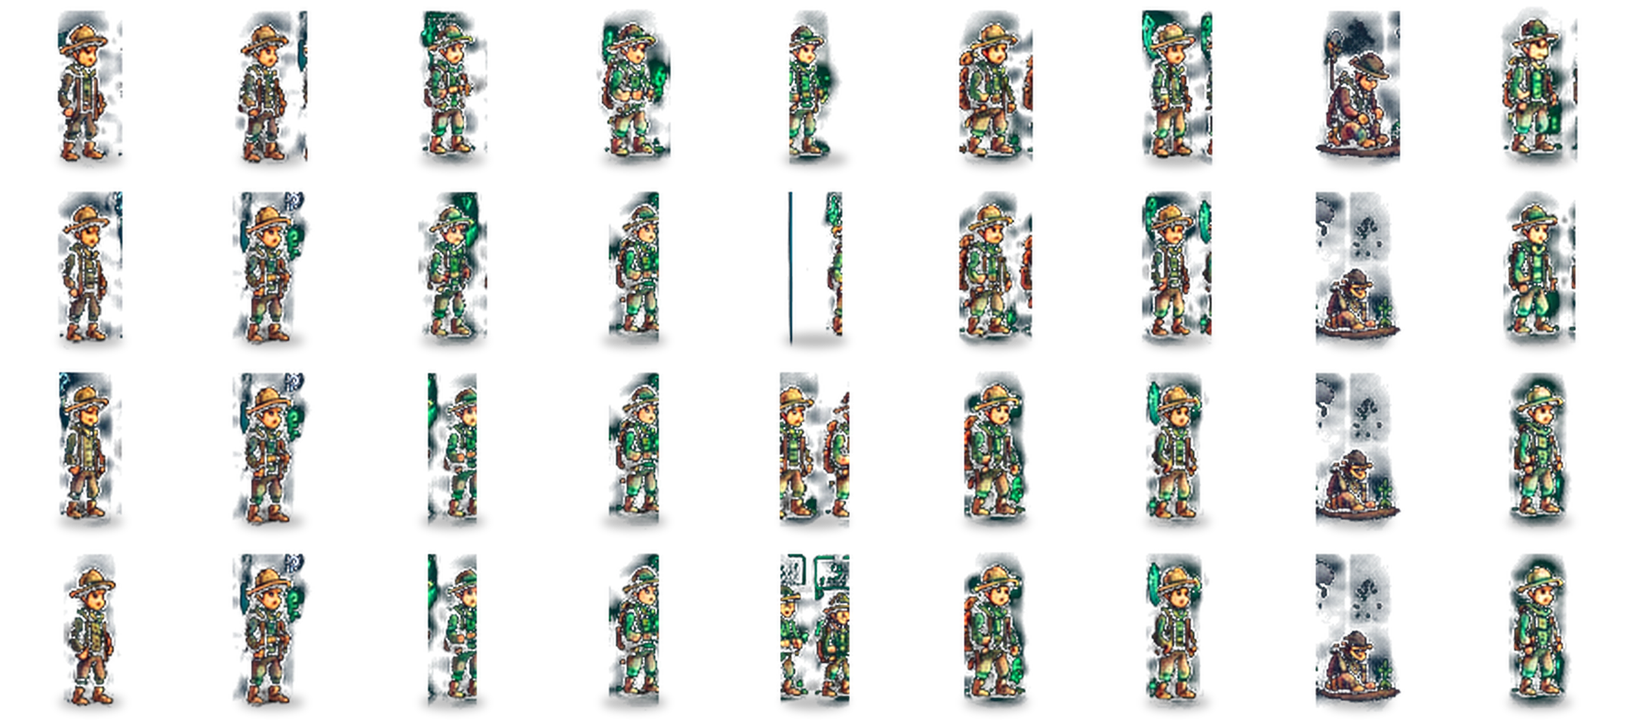
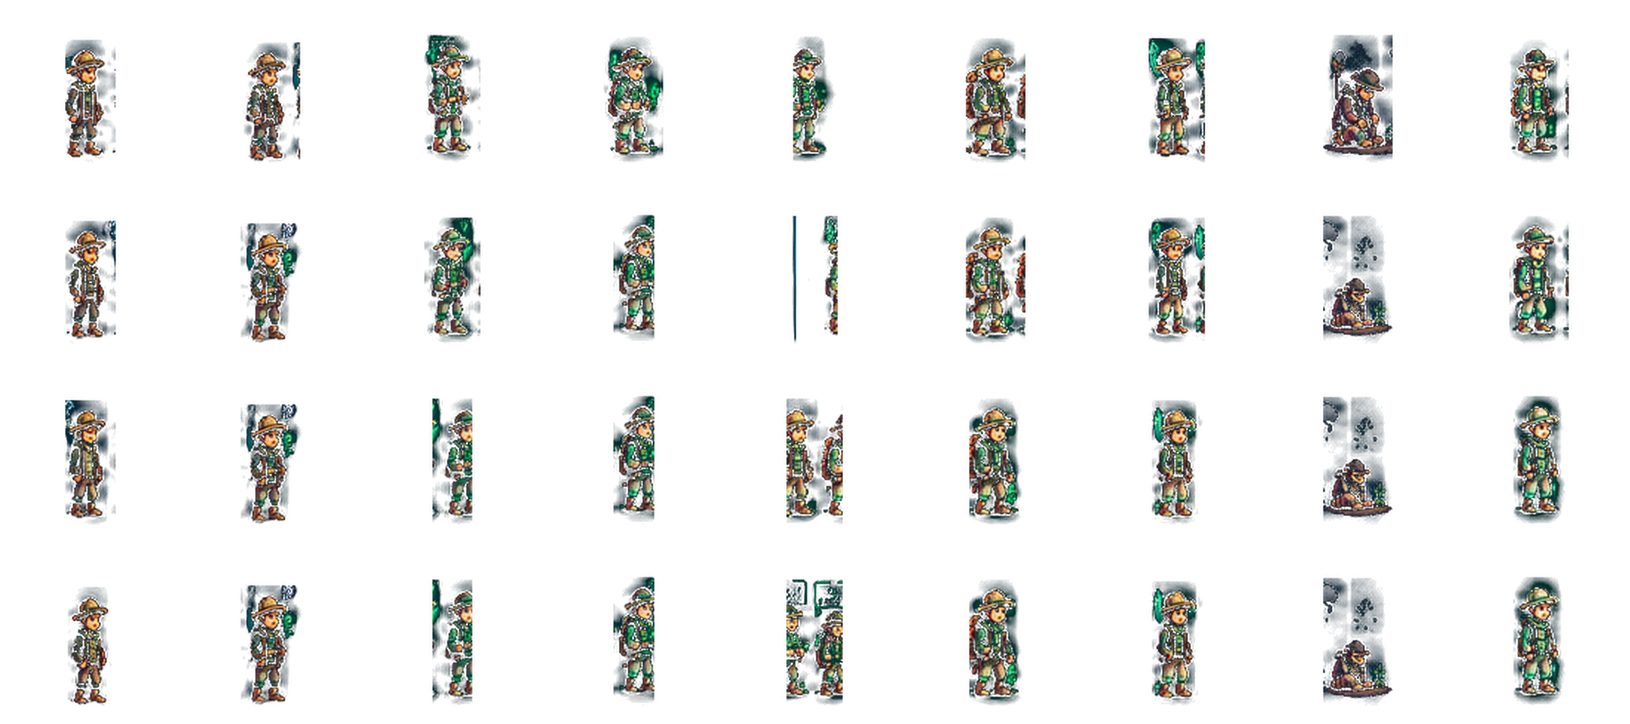
Add files via upload

diff --git a/guesser.html b/guesser.html
@@ -6,23 +6,22 @@
 <title>The Guesser · Baseline Farmer</title>
 <style>
 :root{--bg:#090d0d;--panel:#121919;--panel2:#182121;--line:#2a3737;--text:#e9eeee;--muted:#8ea0a0;--teal:#42d6c5;--green:#78e08f;--yellow:#ffd166;--red:#ff7b72;--purple:#b58cff;--blue:#79a8ff}
-*{box-sizing:border-box}body{margin:0;background:radial-gradient(circle at 50% 0,#162424 0,#090d0d 42%);color:var(--text);font:15px system-ui,-apple-system,BlinkMacSystemFont,"Segoe UI",sans-serif}a{color:var(--teal);text-decoration:none}a:hover{text-decoration:underline}main{max-width:1180px;margin:auto;padding:18px}.top{display:flex;justify-content:space-between;align-items:center;gap:15px;margin-bottom:14px}.brand{display:flex;align-items:center;gap:11px}.brandIcon{width:46px;height:46px;border-radius:10px}.wordmark{width:min(260px,54vw);display:block}.sub{font-size:12px;color:var(--muted);margin-top:3px}.nav{display:flex;gap:7px;flex-wrap:wrap}.nav a,.nav button{background:#172020;border:1px solid var(--line);padding:8px 11px;border-radius:8px;color:var(--text);font-weight:700;font-size:12px}.hero{border:1px solid var(--line);border-radius:18px;overflow:hidden;background:linear-gradient(180deg,#121b1b,#0d1212);box-shadow:0 18px 60px rgba(0,0,0,.25)}.stage{min-height:480px;position:relative;display:flex;align-items:center;justify-content:center;overflow:hidden;background:radial-gradient(circle at 50% 46%,rgba(66,214,197,.12),transparent 27%),linear-gradient(180deg,#0d1515,#080b0b)}.stars{position:absolute;inset:0;opacity:.45;background-image:radial-gradient(circle,#fff 1px,transparent 1px);background-size:67px 67px;background-position:13px 21px}.ground{position:absolute;bottom:44px;width:78%;height:1px;background:linear-gradient(90deg,transparent,var(--line),transparent);box-shadow:0 0 25px rgba(66,214,197,.12)}.scan{position:absolute;inset:0;background:linear-gradient(transparent 49%,rgba(66,214,197,.025) 50%,transparent 51%);background-size:100% 8px;pointer-events:none}.sprite-platform{position:absolute;left:50%;bottom:18px;width:200px;height:28px;transform:translateX(-50%);background:radial-gradient(ellipse at center,rgba(66,214,197,.22) 0%,rgba(0,0,0,.35) 55%,transparent 72%);filter:blur(1px);pointer-events:none;z-index:0}.spriteWrap .avatar{position:relative;z-index:1}.spriteWrap{position:relative;width:360px;height:380px;display:flex;align-items:end;justify-content:center;filter:drop-shadow(0 20px 34px rgba(0,0,0,.55))}.avatar-legacy-unused{display:none}.avatar .farmerHat{opacity:calc(1 - var(--holo));transition:opacity .7s}.avatar .helmet{opacity:var(--holo);transition:opacity .7s}.avatar .tech{opacity:var(--tech);transition:opacity .7s}.avatar .holo{opacity:var(--holo);transition:opacity .7s}.avatar .poor{opacity:var(--poor);transition:opacity .7s}.avatar .warm{opacity:calc(1 - var(--holo));transition:opacity .7s}.avatar .glowStroke{filter:drop-shadow(0 0 calc(3px + 10px * var(--glow)) rgba(66,214,197,.85));transition:filter .7s}.avatar .visorGlow{filter:drop-shadow(0 0 calc(2px + 14px * var(--glow)) rgba(66,214,197,.9));transition:filter .7s}.avatar.tier0{--poor:0;--tech:0;--holo:0;--glow:.05}.avatar.tier1{--poor:.05;--tech:.28;--holo:.08;--glow:.18}.avatar.tier2{--poor:0;--tech:.7;--holo:.38;--glow:.45}.avatar.tier3{--poor:0;--tech:1;--holo:.82;--glow:.78}.avatar.tier4{--poor:0;--tech:1;--holo:1;--glow:1}.avatar.tierPoor{--poor:.9;--tech:0;--holo:0;--glow:0}.avatar.state-wait .bodyAnim{animation:bodySway 2.8s ease-in-out infinite}.avatar.state-buycore .rightArm{transform-origin:118px 185px;animation:plantArm 1.1s ease-in-out infinite}.avatar.state-buycore .leftArm{transform-origin:91px 186px;animation:plantArm2 1.1s ease-in-out infinite}.avatar.state-buytactical .rightArm{transform-origin:118px 185px;animation:pointArm 1s ease-in-out infinite}.avatar.state-buytactical .corn{animation:cornPulse 1.2s ease-in-out infinite}.avatar.state-harvest .leftArm{transform-origin:91px 186px;animation:harvestArm 1s ease-in-out infinite}.avatar.state-harvest .rightArm{transform-origin:118px 185px;animation:harvestArm2 1s ease-in-out infinite}.avatar.state-preserve .headAnim{animation:lookAround 2.6s ease-in-out infinite}.avatar.state-preserve .rightArm{transform-origin:118px 185px;animation:shushArm 2s ease-in-out infinite}.avatar.state-think .headAnim{animation:thinkHead 2s ease-in-out infinite}.avatar.state-celebrate{animation:celebrateFloat .72s ease-in-out infinite}.avatar.state-celebrate .armsUp{animation:armsUp .72s ease-in-out infinite}.avatar.state-setback{animation:setback .9s ease-in-out infinite}.avatar.state-setback .headAnim{animation:sadHead 1.2s ease-in-out infinite}.avatar.state-setback .poorPatch{animation:patchFlicker 1.4s ease-in-out infinite}@keyframes avatarFloat{50%{transform:translateY(-7px)}}@keyframes bodySway{50%{transform:rotate(1.2deg) translateY(-2px)}}@keyframes plantArm{50%{transform:rotate(27deg) translate(3px,7px)}}@keyframes plantArm2{50%{transform:rotate(-20deg)}}@keyframes pointArm{50%{transform:rotate(-34deg) translate(8px,-5px)}}@keyframes cornPulse{50%{transform:scale(1.05);opacity:.85}}@keyframes harvestArm{50%{transform:rotate(-38deg) translateY(-9px)}}@keyframes harvestArm2{50%{transform:rotate(38deg) translateY(-9px)}}@keyframes lookAround{50%{transform:translateX(7px) rotate(2deg)}}@keyframes shushArm{50%{transform:rotate(-7deg) translateY(-11px)}}@keyframes thinkHead{50%{transform:rotate(-4deg) translate(6px,-3px)}}@keyframes celebrateFloat{50%{transform:translateY(-19px)}}@keyframes armsUp{50%{transform:translateY(-4px) rotate(-2deg)}}@keyframes setback{50%{transform:translateY(4px) rotate(-1deg)}}@keyframes sadHead{50%{transform:translateY(4px) rotate(3deg)}}@keyframes patchFlicker{50%{opacity:.5}}.avatarLabel{position:absolute;right:24px;bottom:18px;display:flex;align-items:center;gap:7px;background:rgba(10,16,16,.88);border:1px solid var(--line);border-radius:99px;padding:7px 10px;color:var(--muted);font-size:10px;font-weight:800;letter-spacing:.08em;text-transform:uppercase;backdrop-filter:blur(8px)}.avatarLabel i{width:7px;height:7px;border-radius:50%;background:var(--teal);box-shadow:0 0 10px var(--teal)}.avatarTier{color:var(--teal)}
+*{box-sizing:border-box}body{margin:0;background:radial-gradient(circle at 50% 0,#162424 0,#090d0d 42%);color:var(--text);font:15px system-ui,-apple-system,BlinkMacSystemFont,"Segoe UI",sans-serif}a{color:var(--teal);text-decoration:none}a:hover{text-decoration:underline}main{max-width:1180px;margin:auto;padding:18px}.top{display:flex;justify-content:space-between;align-items:center;gap:15px;margin-bottom:14px}.brand{display:flex;align-items:center;gap:11px}.brandIcon{width:46px;height:46px;border-radius:10px}.wordmark{width:min(260px,54vw);display:block}.sub{font-size:12px;color:var(--muted);margin-top:3px}.nav{display:flex;gap:7px;flex-wrap:wrap}.nav a,.nav button{background:#172020;border:1px solid var(--line);padding:8px 11px;border-radius:8px;color:var(--text);font-weight:700;font-size:12px}.hero{border:1px solid var(--line);border-radius:18px;overflow:hidden;background:linear-gradient(180deg,#121b1b,#0d1212);box-shadow:0 18px 60px rgba(0,0,0,.25)}.stage{min-height:430px;position:relative;display:flex;align-items:center;justify-content:center;overflow:hidden;background:radial-gradient(circle at 50% 46%,rgba(66,214,197,.12),transparent 27%),linear-gradient(180deg,#0d1515,#080b0b)}.stars{position:absolute;inset:0;opacity:.45;background-image:radial-gradient(circle,#fff 1px,transparent 1px);background-size:67px 67px;background-position:13px 21px}.ground{position:absolute;bottom:44px;width:78%;height:1px;background:linear-gradient(90deg,transparent,var(--line),transparent);box-shadow:0 0 25px rgba(66,214,197,.12)}.scan{position:absolute;inset:0;background:linear-gradient(transparent 49%,rgba(66,214,197,.025) 50%,transparent 51%);background-size:100% 8px;pointer-events:none}.spriteWrap{position:relative;width:310px;height:340px;display:flex;align-items:end;justify-content:center;filter:drop-shadow(0 20px 34px rgba(0,0,0,.55))}.avatar{width:290px;height:330px;overflow:visible;--glow:0;--tech:0;--holo:0;--poor:0;animation:avatarFloat 3.6s ease-in-out infinite;transition:filter .7s ease}.avatar .farmerHat{opacity:calc(1 - var(--holo));transition:opacity .7s}.avatar .helmet{opacity:var(--holo);transition:opacity .7s}.avatar .tech{opacity:var(--tech);transition:opacity .7s}.avatar .holo{opacity:var(--holo);transition:opacity .7s}.avatar .poor{opacity:var(--poor);transition:opacity .7s}.avatar .warm{opacity:calc(1 - var(--holo));transition:opacity .7s}.avatar .glowStroke{filter:drop-shadow(0 0 calc(3px + 10px * var(--glow)) rgba(66,214,197,.85));transition:filter .7s}.avatar .visorGlow{filter:drop-shadow(0 0 calc(2px + 14px * var(--glow)) rgba(66,214,197,.9));transition:filter .7s}.avatar.tier0{--poor:0;--tech:0;--holo:0;--glow:.05}.avatar.tier1{--poor:.05;--tech:.28;--holo:.08;--glow:.18}.avatar.tier2{--poor:0;--tech:.7;--holo:.38;--glow:.45}.avatar.tier3{--poor:0;--tech:1;--holo:.82;--glow:.78}.avatar.tier4{--poor:0;--tech:1;--holo:1;--glow:1}.avatar.tierPoor{--poor:.9;--tech:0;--holo:0;--glow:0}.avatar.state-wait .bodyAnim{animation:bodySway 2.8s ease-in-out infinite}.avatar.state-buycore .rightArm{transform-origin:118px 185px;animation:plantArm 1.1s ease-in-out infinite}.avatar.state-buycore .leftArm{transform-origin:91px 186px;animation:plantArm2 1.1s ease-in-out infinite}.avatar.state-buytactical .rightArm{transform-origin:118px 185px;animation:pointArm 1s ease-in-out infinite}.avatar.state-buytactical .corn{animation:cornPulse 1.2s ease-in-out infinite}.avatar.state-harvest .leftArm{transform-origin:91px 186px;animation:harvestArm 1s ease-in-out infinite}.avatar.state-harvest .rightArm{transform-origin:118px 185px;animation:harvestArm2 1s ease-in-out infinite}.avatar.state-preserve .headAnim{animation:lookAround 2.6s ease-in-out infinite}.avatar.state-preserve .rightArm{transform-origin:118px 185px;animation:shushArm 2s ease-in-out infinite}.avatar.state-think .headAnim{animation:thinkHead 2s ease-in-out infinite}.avatar.state-celebrate{animation:celebrateFloat .72s ease-in-out infinite}.avatar.state-celebrate .armsUp{animation:armsUp .72s ease-in-out infinite}.avatar.state-setback{animation:setback .9s ease-in-out infinite}.avatar.state-setback .headAnim{animation:sadHead 1.2s ease-in-out infinite}.avatar.state-setback .poorPatch{animation:patchFlicker 1.4s ease-in-out infinite}@keyframes avatarFloat{50%{transform:translateY(-7px)}}@keyframes bodySway{50%{transform:rotate(1.2deg) translateY(-2px)}}@keyframes plantArm{50%{transform:rotate(27deg) translate(3px,7px)}}@keyframes plantArm2{50%{transform:rotate(-20deg)}}@keyframes pointArm{50%{transform:rotate(-34deg) translate(8px,-5px)}}@keyframes cornPulse{50%{transform:scale(1.05);opacity:.85}}@keyframes harvestArm{50%{transform:rotate(-38deg) translateY(-9px)}}@keyframes harvestArm2{50%{transform:rotate(38deg) translateY(-9px)}}@keyframes lookAround{50%{transform:translateX(7px) rotate(2deg)}}@keyframes shushArm{50%{transform:rotate(-7deg) translateY(-11px)}}@keyframes thinkHead{50%{transform:rotate(-4deg) translate(6px,-3px)}}@keyframes celebrateFloat{50%{transform:translateY(-19px)}}@keyframes armsUp{50%{transform:translateY(-4px) rotate(-2deg)}}@keyframes setback{50%{transform:translateY(4px) rotate(-1deg)}}@keyframes sadHead{50%{transform:translateY(4px) rotate(3deg)}}@keyframes patchFlicker{50%{opacity:.5}}.avatarLabel{position:absolute;right:24px;bottom:18px;display:flex;align-items:center;gap:7px;background:rgba(10,16,16,.88);border:1px solid var(--line);border-radius:99px;padding:7px 10px;color:var(--muted);font-size:10px;font-weight:800;letter-spacing:.08em;text-transform:uppercase;backdrop-filter:blur(8px)}.avatarLabel i{width:7px;height:7px;border-radius:50%;background:var(--teal);box-shadow:0 0 10px var(--teal)}.avatarTier{color:var(--teal)}
 .stageInfo{position:absolute;left:18px;bottom:18px}.state{font-size:12px;letter-spacing:.1em;color:var(--teal);font-weight:850}.guess{font-size:34px;font-weight:900;margin-top:3px}.speech{position:absolute;right:22px;top:20px;max-width:310px;background:#edf4f1;color:#172020;border-radius:16px;padding:12px 15px;font-weight:750;line-height:1.35;box-shadow:0 10px 35px rgba(0,0,0,.25)}.speech:after{content:"";position:absolute;left:22px;bottom:-12px;border:7px solid transparent;border-top-color:#edf4f1;border-left-color:#edf4f1}.speech small{display:block;font-size:9px;opacity:.55;margin-top:5px;text-transform:uppercase;letter-spacing:.08em}.stageTools{position:absolute;right:18px;bottom:18px;display:flex;gap:6px}.stageTools button{border:1px solid var(--line);background:#111919;color:var(--muted);border-radius:8px;padding:7px 9px;cursor:pointer}.stageTools button:hover{color:var(--text);border-color:var(--teal)}
 .dash{padding:15px;background:#0e1414}.dashTop{display:flex;justify-content:space-between;gap:12px;align-items:end;margin-bottom:11px}.dashTop h2{margin:0;font-size:18px}.dashTop p{margin:3px 0 0;color:var(--muted);font-size:12px}.grid{display:grid;grid-template-columns:1.2fr .8fr;gap:11px}.cards{display:grid;grid-template-columns:repeat(4,1fr);gap:7px}.card,.panel{background:var(--panel2);border-radius:10px;padding:11px;border:1px solid #223030}.label{font-size:10px;color:var(--muted);letter-spacing:.06em}.value{font-size:20px;font-weight:850;margin-top:3px}.green{color:var(--green)}.yellow{color:var(--yellow)}.red{color:var(--red)}.teal{color:var(--teal)}.bar{height:8px;background:#0b1010;border-radius:4px;overflow:hidden;margin-top:8px}.bar>i{display:block;height:100%;background:var(--teal)}.panel h3{font-size:13px;margin:0 0 9px}.tfgrid{display:grid;grid-template-columns:repeat(5,1fr);gap:6px}.tf{background:#111919;border-radius:8px;padding:8px}.tf b{font-size:11px}.tf div{font-weight:850;font-size:16px;margin-top:3px}.tf span{font-size:10px;color:var(--muted)}.twocol{display:grid;grid-template-columns:1fr 1fr;gap:7px}.metric{background:#111919;border-radius:8px;padding:9px}.metric b{display:block;font-size:11px}.metric span{display:block;color:var(--muted);font-size:11px;margin-top:3px;line-height:1.35}.learning{margin-top:11px;border:1px dashed #304040;border-radius:10px;padding:10px;background:#0c1212}.learningHead{display:flex;justify-content:space-between;align-items:center}.learningHead b{font-size:12px}.learningHead span{font-size:10px;color:var(--teal);border:1px solid var(--line);padding:3px 6px;border-radius:99px}.learning p{margin:6px 0 0;color:var(--muted);font-size:11px;line-height:1.45}.history{max-height:220px;overflow:auto;margin-top:7px}.history table{width:100%;border-collapse:collapse}.history th,.history td{padding:6px;border-bottom:1px solid var(--line);font-size:10px;text-align:left}.history th{color:var(--muted)}.pill{display:inline-block;padding:3px 6px;border-radius:99px;background:#232d2d}.foot{display:flex;justify-content:space-between;align-items:center;gap:10px;margin-top:12px;color:var(--muted);font-size:11px}.linkBtn{background:none;border:0;color:var(--teal);cursor:pointer;font:inherit;font-weight:700}.empty{padding:20px;text-align:center;color:var(--muted)}@media(max-width:850px){main{padding:11px}.top{align-items:flex-start;flex-direction:column}.stage{min-height:500px}.speech{right:12px;top:12px;max-width:220px;font-size:12px}.stageInfo{left:13px;bottom:13px}.guess{font-size:27px}.stageTools{right:12px;bottom:13px}.grid{grid-template-columns:1fr}.cards{grid-template-columns:1fr 1fr}.tfgrid{grid-template-columns:1fr 1fr}.twocol{grid-template-columns:1fr} .spriteWrap{transform:scale(.88);transform-origin:center bottom}}
 
 /* Runtime sprite atlas: extracted from the Guesser artwork sheet. */
-.avatar{width:320px;height:320px;display:block;background-repeat:no-repeat;background-size:2880px 1280px;background-position:0 0;background-color:transparent;image-rendering:auto;animation:avatarFloat 3.6s ease-in-out infinite;filter:drop-shadow(0 18px 28px rgba(0,0,0,.6));transition:filter .45s ease,transform .45s ease;flex-shrink:0}.avatar.state-celebrate{animation:celebrateFloat .72s ease-in-out infinite}.avatar.state-setback{animation:setback .9s ease-in-out infinite}.avatar.evolution{animation:growthPulse .55s ease-in-out infinite}.avatar.glowup{filter:drop-shadow(0 0 18px rgba(66,214,197,.65)) drop-shadow(0 20px 34px rgba(0,0,0,.5))}@keyframes growthPulse{50%{transform:translateY(-12px) scale(1.035)}}
+.avatar{width:240px;height:240px;display:block;background-repeat:no-repeat;background-size:2160px 960px;background-position:0 0;background-color:transparent;image-rendering:auto;animation:avatarFloat 3.6s ease-in-out infinite;filter:drop-shadow(0 20px 34px rgba(0,0,0,.55));transition:filter .45s ease,transform .45s ease}.avatar.state-celebrate{animation:celebrateFloat .72s ease-in-out infinite}.avatar.state-setback{animation:setback .9s ease-in-out infinite}.avatar.evolution{animation:growthPulse .55s ease-in-out infinite}.avatar.glowup{filter:drop-shadow(0 0 18px rgba(66,214,197,.65)) drop-shadow(0 20px 34px rgba(0,0,0,.5))}@keyframes growthPulse{50%{transform:translateY(-12px) scale(1.035)}}
 </style>
 </head>
 <body>
 <main>
-<div class="top"><div class="brand"><img class="brandIcon" src="baseline-farmer-logo.png" alt="Baseline Farmer"><div><img class="wordmark" src="baseline-farmer-wordmark.png" alt="Baseline Farmer"><div class="sub">Your baseline-farming companion.</div></div></div><div class="nav"><a href="index.html">Home</a><a href="baseline_farmer.html">Dashboard</a><a href="market_strategy.html">Strategy</a><a href="guesser_lore.html">How it works</a></div></div>
+<div class="top"><div class="brand"><img class="brandIcon" src="baseline-farmer-logo.png" alt="Baseline Farmer"><div><img class="wordmark" src="baseline-farmer-wordmark.png" alt="Baseline Farmer"><div class="sub">The Guesser's little corner of the farm.</div></div></div><div class="nav"><a href="baseline_farmer.html">Dashboard</a><a href="market_strategy.html">Strategy</a><a href="guesser_lore.html">How the Guesser works</a></div></div>
 <section class="hero">
 <div class="stage" id="stage">
 <div class="stars"></div><div class="scan"></div><div class="ground"></div>
-<div class="speech" id="speech">Give me a second. I'm looking at the whole field.<small id="speechName">Sprout</small></div>
+<div class="speech" id="speech">Give me a second. I'm looking at the whole field.<small>Guesser</small></div>
 <div class="spriteWrap">
-<div class="sprite-platform" aria-hidden="true"></div>
 <div class="avatar tier0 state-wait" id="sprite" role="img" aria-label="The Guesser"></div>
 <div class="avatarLabel"><i></i><span id="avatarTier" class="avatarTier">STARTING OUT</span></div>
 </div>
@@ -30,7 +29,7 @@
 <div class="stageTools"><button id="nextLine">Another line</button><button id="replay">Replay</button></div>
 </div>
 <div class="dash">
-<div class="dashTop"><div><h2>Alongside you</h2><p>What it sees in the market, what it is holding, and how its own farm is doing.</p></div><div class="label" id="updated">LOCAL STATE</div></div>
+<div class="dashTop"><div><h2>Guesser dashboard</h2><p>A closer look at what the Guesser sees, remembers, and manages.</p></div><div class="label" id="updated">LOCAL STATE</div></div>
 <div class="grid">
 <div>
 <div class="cards"><div class="card"><div class="label">VIRTUAL BASELINE</div><div class="value" id="baseline">—</div></div><div class="card"><div class="label">CRYPTO</div><div class="value" id="crypto">—</div></div><div class="card"><div class="label">CASH</div><div class="value" id="cash">—</div></div><div class="card"><div class="label">TOTAL VALUE</div><div class="value" id="total">—</div></div></div>
@@ -40,30 +39,29 @@
 <div>
 <div class="panel"><h3>What it thinks right now</h3><div class="value" id="currentGuess">—</div><div style="margin-top:7px;color:var(--muted);font-size:12px;line-height:1.45" id="case">Waiting for a market observation.</div></div>
 <div class="panel" style="margin-top:8px"><h3>Evidence it is watching</h3><div class="twocol" id="evidence"></div></div>
-<div class="learning"><div class="learningHead"><b>Learning state</b><span id="policyTag">POLICY v—</span></div><p id="learningText">It farms with its own account using the same baseline approach. As outcomes come in, it adjusts how aggressively it buys, holds, and harvests.</p></div>
+<div class="learning"><div class="learningHead"><b>Learning state</b><span id="policyTag">POLICY v—</span></div><p id="learningText">The Guesser keeps its own hypothetical account. Matured decisions are scored with counterfactuals, train linear weights, and adapt the management policy used by later decisions.</p></div>
 </div>
 </div>
 <div class="panel" style="margin-top:11px"><h3>Recent Guesser decisions</h3><div class="history" id="history"></div></div>
-<div class="foot"><span>A local companion on the same strategy — not a promise about future market behavior.</span><a href="guesser_lore.html">How the Guesser thinks →</a></div>
+<div class="foot"><span>Experimental. The Guesser is a local prototype, not a promise about future market behavior.</span><a href="guesser_lore.html">Meet the machinery behind the character →</a></div>
 </div></section>
 
 <div id="guesserSetupOverlay" style="display:none;position:fixed;inset:0;background:rgba(0,0,0,.72);z-index:50;align-items:center;justify-content:center;padding:18px">
   <div style="max-width:480px;width:100%;background:#121919;border:1px solid #2a3737;border-radius:16px;padding:18px">
-    <div style="font-size:11px;letter-spacing:.08em;color:#42d6c5;font-weight:800">GET THE GUESSER STARTED</div>
-    <h2 style="margin:6px 0 8px;font-size:22px">Start the Guesser’s account</h2>
-    <p style="color:#8ea0a0;font-size:13px;line-height:1.5;margin:0 0 12px">Name your companion, set its stack, and pick how it likes to farm. Yours stays yours.</p>
-    <div style="margin-bottom:10px"><label style="display:block;color:#8ea0a0;font-size:12px;margin-bottom:4px">Name</label><input id="gsName" type="text" maxlength="24" value="Sprout" style="width:100%;background:#0f1414;color:#e9eeee;border:1px solid #2a3737;border-radius:8px;padding:9px"></div>
+    <div style="font-size:11px;letter-spacing:.08em;color:#42d6c5;font-weight:800">ENTRY PHASE SETUP</div>
+    <h2 style="margin:6px 0 8px;font-size:22px">Set up the Guesser account</h2>
+    <p style="color:#8ea0a0;font-size:13px;line-height:1.5;margin:0 0 12px">Virtual capital and trading style for the Guesser’s entry phase. This account is separate from your real farm.</p>
     <div style="display:grid;grid-template-columns:1fr 1fr;gap:10px">
       <div><label style="display:block;color:#8ea0a0;font-size:12px;margin-bottom:4px">Baseline ($)</label><input id="gsBaseline" type="number" min="0" step="50" value="1000" style="width:100%;background:#0f1414;color:#e9eeee;border:1px solid #2a3737;border-radius:8px;padding:9px"></div>
       <div><label style="display:block;color:#8ea0a0;font-size:12px;margin-bottom:4px">Crypto ($)</label><input id="gsCrypto" type="number" min="0" step="50" value="200" style="width:100%;background:#0f1414;color:#e9eeee;border:1px solid #2a3737;border-radius:8px;padding:9px"></div>
       <div><label style="display:block;color:#8ea0a0;font-size:12px;margin-bottom:4px">Cash ($)</label><input id="gsCash" type="number" min="0" step="50" value="500" style="width:100%;background:#0f1414;color:#e9eeee;border:1px solid #2a3737;border-radius:8px;padding:9px"></div>
       <div><label style="display:block;color:#8ea0a0;font-size:12px;margin-bottom:4px">Personality</label>
         <select id="gsPersonality" style="width:100%;background:#0f1414;color:#e9eeee;border:1px solid #2a3737;border-radius:8px;padding:9px">
-          <option value="balanced">Balanced</option>
-          <option value="patient">Patient</option>
+          <option value="balanced">Balanced farmer</option>
+          <option value="patient">Patient farmer</option>
           <option value="opportunistic">Opportunistic</option>
-          <option value="aggressive">Aggressive</option>
-          <option value="guardian">Guardian</option>
+          <option value="aggressive">Aggressive entry</option>
+          <option value="guardian">Capital guardian</option>
         </select>
       </div>
     </div>
@@ -77,7 +75,7 @@
 <script>
 const STATE_KEY='baselineFarmerState',LEARN_KEY='baselineFarmerGuesserV4',DRAFT_KEY='baselineFarmerGuesserSetupDraft',BF_DB='baselineFarmerDB';
 const $=id=>document.getElementById(id), money=x=>(Number(x)||0).toLocaleString(undefined,{style:'currency',currency:'USD',maximumFractionDigits:0}),pct=x=>((Number(x)||0)>=0?'+':'')+(Number(x)||0).toFixed(1)+'%';
-const GUESSER_DEFAULTS={name:'Sprout',baseline:1000,crypto:200,cash:500,personality:'balanced'};
+const GUESSER_DEFAULTS={baseline:1000,crypto:200,cash:500,personality:'balanced'};
 let state={}, learner={}, market={}, p={}, nodes=[], node={}, guess='HOLD / PRESERVE';
 function personalityPolicy(name){
   const base={buyCore:.10,buyTactical:.28,buyGapCap:.35,harvestNormal:.12,harvestHigh:.20,harvestFomo:.35,devBuy:-5,devHarvest:5,reversalBoost:.10,continuationBoost:.06,recycleRate:.15};
@@ -116,20 +114,6 @@ async function loadAll(){
     const gp=await idbGet(db,'guesserPortfolio','current');
     const gl=await idbGet(db,'guesserLearning','current');
     const draft=await idbGet(db,'meta','guesserSetupDraft');
-    // Market lives in IndexedDB now (dashboard no longer embeds it in state JSON)
-    try{
-      const ticker=await idbGet(db,'marketCache','ticker');
-      const daily=await idbGet(db,'marketCache','daily');
-      const hourly=await idbGet(db,'marketCache','hourly');
-      market={...(market||{})};
-      if(ticker)market.ticker=ticker;
-      if(daily)market.daily=daily;
-      if(hourly)market.hourly=hourly;
-    }catch(e){}
-    // Fallback: legacy localStorage market cache key
-    if(!market.ticker&&!market.daily){
-      try{const c=JSON.parse(localStorage.getItem('baselineFarmerMarketV3')||'null');if(c)market=c}catch(e){}
-    }
     learner={portfolio:gp||null,policy:gl?.policy||null,nodes:[],version:gl?.version||9};
     if(draft)learner._draft=draft;
     try{
@@ -149,7 +133,6 @@ function applySetup(cfg,db){
   const crypto=Math.max(0,Number(cfg.crypto)||200);
   const cash=Math.max(0,Number(cfg.cash)||500);
   const personality=cfg.personality||'balanced';
-  const name=String(cfg.name||GUESSER_DEFAULTS.name||'Sprout').trim().slice(0,24)||'Sprout';
   const pol=personalityPolicy(personality);
   pol.version=(Number(learner.policy?.version)||1)+1;
   pol.personality=personality;
@@ -158,9 +141,9 @@ function applySetup(cfg,db){
     baseline,units:price>0?crypto/price:0,cash,extracted:0,recycled:0,
     startingValue:crypto+cash,created:Date.now(),lastPrice:price,lastTime:Date.now(),
     lastNodeId:null,decisions:0,history:[],version:2,policyVersion:pol.version,
-    personality,name,setupComplete:true,phase:'entry'
+    personality,setupComplete:true,phase:'entry'
   };
-  const draft={name,baseline,crypto,cash,personality,updatedAt:Date.now(),source:cfg.source||'guesser-page'};
+  const draft={baseline,crypto,cash,personality,updatedAt:Date.now(),source:cfg.source||'guesser-page'};
   try{localStorage.setItem(DRAFT_KEY,JSON.stringify(draft))}catch(e){}
   // merge into legacy blob for thin readers
   try{
@@ -179,109 +162,38 @@ function showSetup(draft){
   const ov=$('guesserSetupOverlay');
   ov.style.display='flex';
   const d={...GUESSER_DEFAULTS,...(draft||{})};
-  if($('gsName'))$('gsName').value=d.name||GUESSER_DEFAULTS.name||'Sprout';
   $('gsBaseline').value=String(Math.round(Number(d.baseline)||1000));
   $('gsCrypto').value=String(Math.round(Number(d.crypto)||200));
   $('gsCash').value=String(Math.round(Number(d.cash)||500));
   $('gsPersonality').value=d.personality||'balanced';
 }
 
-function cls(g){if(!g)return'idle';if(g.includes('TACTICAL'))return'buy-tactical';if(g.includes('CORE'))return'buy-core';if(g==='HARVEST'||g==='HARVESTED')return'harvest';if(g.includes('PRESERVE'))return'preserve';if(g.includes('HOLD'))return'idle';return'thinking'}
+function cls(g){if(g.includes('TACTICAL'))return'buytactical';if(g.includes('CORE'))return'buycore';if(g==='HARVEST')return'harvest';if(g.includes('PRESERVE'))return'preserve';if(g.includes('HOLD'))return'wait';return'think'}
 function label(g){return g==='HARVEST'?'HARVESTING':g.includes('TACTICAL')?'TACTICAL BUY':g.includes('CORE')?'CORE BUY':g.includes('PRESERVE')?'PRESERVING':'WAITING'}
-function guesserName(){return (p&&p.name)||(learner.portfolio&&learner.portfolio.name)||GUESSER_DEFAULTS.name||'Sprout'}
-function guesserPersonality(){return (p&&p.personality)||(learner.portfolio&&learner.portfolio.personality)||(learner.policy&&learner.policy.personality)||'balanced'}
-function line(g){
-  const pers=guesserPersonality();
-  const byPers={
-    balanced:{
-      'HOLD / PRESERVE':['Not every gap needs filling.','Watching. The field can come to us.','Holding is still a decision.'],
-      'HOLD':['Nothing strong enough yet.','I have a read. I am not forcing it.','Still watching the shape of this.'],
-      'BUY · CORE':['Normal farming ground. Small steps.','Building the baseline, not the drama.','Steady planting.'],
-      'BUY · TACTICAL':['That deviation is worth powder.','Tactical stack — not a blind fill.','Okay. That one is interesting.'],
-      'HARVEST':['Something to take home.','Do not need the exact top.','Barn time for part of the crop.']
-    },
-    patient:{
-      'HOLD / PRESERVE':['Still too early.','Let the weak hands hurry.','I can wait longer than the noise.'],
-      'HOLD':['Not convinced.','Another candle does not change the plan.','Patience is the edge here.'],
-      'BUY · CORE':['Only the clean, quiet add.','Baseline work. No heroics.','Slow is smooth.'],
-      'BUY · TACTICAL':['Finally a real dip, not a flinch.','I waited for this shape.','Powder for a proper deviation.'],
-      'HARVEST':['Ripe enough.','Take some, leave some growing.','No greed for the last tick.']
-    },
-    opportunistic:{
-      'HOLD / PRESERVE':['Scanning for a crack.','Idle, not asleep.','When it slips, I move.'],
-      'HOLD':['Almost… not yet.','Keep the dry powder dry.','Waiting on a better entry print.'],
-      'BUY · CORE':['Take the lane while it is open.','Core fill — do not overthink it.','Path of least regret.'],
-      'BUY · TACTICAL':['There — that is the slip.','Tactical. Fast. Measured.','Caught a useful wobble.'],
-      'HARVEST':['Skim the cream.','Strength is a gift. Take a slice.','Lock a little luck in.']
-    },
-    aggressive:{
-      'HOLD / PRESERVE':['Hate sitting still, but fine.','Baseline is still the mission.','Only hold if chase is worse.'],
-      'HOLD':['Reluctant hold.','Would rather be filling.','Clock is loud today.'],
-      'BUY · CORE':['Fill it. Toward baseline.','Push the stack up.','Core size. Keep moving.'],
-      'BUY · TACTICAL':['Press the weakness.','Bigger bite while it is soft.','Do not waste a clean dip.'],
-      'HARVEST':['Take profit, stay in the game.','Trim fat, keep the farm.','Harvest hard, then reload.']
-    },
-    guardian:{
-      'HOLD / PRESERVE':['Capital first.','No need to prove anything.','Survive the boring days.'],
-      'HOLD':['Protect the dry powder.','Risk is not interesting today.','Still whole. Good.'],
-      'BUY · CORE':['Only what the plan allows.','Careful seed, not a splash.','Baseline, not bravado.'],
-      'BUY · TACTICAL':['Small tactical — sized for regret.','A dip, not a dare.','Buy, but leave room to breathe.'],
-      'HARVEST':['Bank it. Sleep better.','Pull risk off the table.','Guardians harvest early.']
-    }
-  };
-  const pack=byPers[pers]||byPers.balanced;
-  const lines=pack[g]||pack['HOLD / PRESERVE'];
-  return lines[Math.floor(Math.random()*lines.length)];
-}
+function line(g){const lines={
+'HOLD / PRESERVE':['Not every gap needs filling.','I am watching. The market can come to us.','Patience is an active position, apparently.'],
+'HOLD':['Nothing compelling enough yet.','I have opinions. I am not trading them.','Still watching the shape of this thing.'],
+'BUY · CORE':['This looks like normal farming territory.','Small steps. Keep building the baseline.','Planting time. Nothing dramatic.'],
+'BUY · TACTICAL':['Okay, that is more interesting.','That deviation is worth keeping some powder for.','Now we are talking. Tactical capital.'],
+'HARVEST':['There is something to harvest here.','I do not need the exact top to take a little home.','Good crop. Put some of it in the barn.']}; const a=lines[g]||lines['HOLD / PRESERVE'];return a[Math.floor(Math.random()*a.length)]}
 function avatarTier(){const q=learner.portfolio||{};const start=Number(q.startingValue)||0;const now=(Number(q.cash)||0)+(Number(q.units)||0)*(Number(market.ticker?.quotes?.USD?.price)||Number((market.daily||[]).at(-1)?.p)||Number(q.lastPrice)||0)+(Number(q.extracted)||0);const base=Number(q.baseline)||start||1;const progress=(now-start)/Math.max(start,1);const growth=(base-start)/Math.max(start,1);const score=progress*0.72+growth*0.28;if(score<-.14)return ['tierPoor','STRUGGLING'];if(score<-.03)return ['tier0','STARTING OUT'];if(score<.10)return ['tier1','BUILDING'];if(score<.28)return ['tier2','GROWING'];if(score<.55)return ['tier3','ADVANCING'];return ['tier4','HOLOGRAPHIC'];}
 let spriteTimer=null, spriteFrame=0;
 const SPRITE_COL={idle:0,thinking:1,'buy-core':2,'buy-tactical':3,harvest:4,preserve:5,celebrate:6,setback:7,growth:8};
 const SPRITE_FRAMES={idle:4,thinking:2,'buy-core':3,'buy-tactical':2,harvest:4,preserve:3,celebrate:3,setback:2,growth:3};
 const SPRITE_SPEED={idle:520,thinking:620,'buy-core':260,'buy-tactical':260,harvest:240,preserve:520,celebrate:180,setback:500,growth:220};
 function atlasTierClass(tier){return tier==='tierPoor'?6:tier==='tier4'?5:tier==='tier3'?4:tier==='tier2'?3:tier==='tier1'?2:1;}
-const SPRITE_CELL=320; // display cell size (sheet is 9x4 of 240; CSS scales sheet to 2880x1280)
-function applyAvatarTier(){
-  const [tier,name]=avatarTier();
-  const s=$('sprite');
-  if(!s)return tier;
-  const atlas=atlasTierClass(tier);
-  s.className='avatar '+tier;
-  s.style.width=SPRITE_CELL+'px';
-  s.style.height=SPRITE_CELL+'px';
-  s.style.backgroundImage=`url("guesser_tier${atlas}.png")`;
-  s.style.backgroundRepeat='no-repeat';
-  s.style.backgroundSize=(SPRITE_CELL*9)+'px '+(SPRITE_CELL*4)+'px';
-  s.style.backgroundColor='transparent';
-  $('avatarTier').textContent=name;
-  return tier;
-}
-function setSpriteFrame(stateName,frame){
-  const s=$('sprite');if(!s)return;
-  const key=SPRITE_COL[stateName]!=null?stateName:'idle';
-  const col=SPRITE_COL[key]??0;
-  const fr=Math.max(0,Number(frame)||0);
-  s.style.backgroundPosition=`-${col*SPRITE_CELL}px -${fr*SPRITE_CELL}px`;
-  s.dataset.spriteState=key;
-  s.dataset.spriteFrame=String(fr);
-}
-function startSprite(stateName){
-  clearInterval(spriteTimer);
-  spriteFrame=0;
-  const key=SPRITE_COL[stateName]!=null?stateName:'idle';
-  setSpriteFrame(key,0);
-  const count=SPRITE_FRAMES[key]||1;
-  const speed=SPRITE_SPEED[key]||450;
-  if(count>1)spriteTimer=setInterval(()=>{spriteFrame=(spriteFrame+1)%count;setSpriteFrame(key,spriteFrame)},speed);
-}
-function animate(g){const s=$('sprite');const tier=applyAvatarTier();const stateName=cls(g);s.className='avatar '+tier+' state-'+stateName;void s.offsetWidth;$('stateLabel').textContent=label(g);$('guessLabel').textContent=g;const sp=$('speech');if(sp){sp.childNodes[0].textContent=line(g)+' ';const sm=$('speechName');if(sm)sm.textContent=guesserName();}const atlas=atlasTierClass(tier);const previous=Number(localStorage.getItem('baselineFarmerGuesserVisualTier')||atlas);const changed=previous!==atlas;localStorage.setItem('baselineFarmerGuesserVisualTier',String(atlas));if(changed&&previous!==0){s.classList.add('evolution','glowup');startSprite('growth');setTimeout(()=>{s.classList.remove('evolution');startSprite(stateName)},1700)}else{startSprite(stateName)}if(g==='HARVEST'||g==='BUY · TACTICAL'){s.classList.add('state-celebrate');setTimeout(()=>s.classList.remove('state-celebrate'),700)}}
+function applyAvatarTier(){const [tier,name]=avatarTier();const s=$('sprite');s.className='avatar '+tier;s.style.backgroundImage=`url("guesser_tier${atlasTierClass(tier)}.png")`;$('avatarTier').textContent=name;return tier;}
+function setSpriteFrame(stateName,frame){const s=$('sprite');const col=SPRITE_COL[stateName]??0;s.style.backgroundPosition=`-${col*240}px -${frame*240}px`;s.dataset.spriteState=stateName;s.dataset.spriteFrame=String(frame);}
+function startSprite(stateName){clearInterval(spriteTimer);spriteFrame=0;setSpriteFrame(stateName,0);const count=SPRITE_FRAMES[stateName]||1;const speed=SPRITE_SPEED[stateName]||450;if(count>1)spriteTimer=setInterval(()=>{spriteFrame=(spriteFrame+1)%count;setSpriteFrame(stateName,spriteFrame)},speed);}
+function animate(g){const s=$('sprite');const tier=applyAvatarTier();const stateName=cls(g);s.className='avatar '+tier+' state-'+stateName;void s.offsetWidth;$('stateLabel').textContent=label(g);$('guessLabel').textContent=g;$('speech').firstChild.textContent=line(g);const atlas=atlasTierClass(tier);const previous=Number(localStorage.getItem('baselineFarmerGuesserVisualTier')||atlas);const changed=previous!==atlas;localStorage.setItem('baselineFarmerGuesserVisualTier',String(atlas));if(changed&&previous!==0){s.classList.add('evolution','glowup');startSprite('growth');setTimeout(()=>{s.classList.remove('evolution');startSprite(stateName)},1700)}else{startSprite(stateName)}if(g==='HARVEST'||g==='BUY · TACTICAL'){s.classList.add('state-celebrate');setTimeout(()=>s.classList.remove('state-celebrate'),700)}}
 function render(){const price=Number(market.ticker?.quotes?.USD?.price)||Number((market.daily||[]).at(-1)?.p)||Number(p.lastPrice)||0;const crypto=Number(p.units||0)*price,total=crypto+Number(p.cash||0),dev=p.baseline?((crypto-p.baseline)/p.baseline*100):0;
 $('baseline').textContent=money(p.baseline);$('crypto').textContent=money(crypto);$('cash').textContent=money(p.cash);$('total').textContent=money(total);$('dev').textContent=pct(dev);$('dev').className=dev>=0?'green':'red';$('last').textContent=p.lastAction||'HELD';$('extracted').textContent=money(p.extracted);$('recycled').textContent=money(p.recycled);$('cryptoBar').style.width=Math.max(0,Math.min(100,p.baseline?crypto/p.baseline*100:0))+'%';
-$('currentGuess').textContent=guess;$('currentGuess').className='value '+(guess.includes('BUY')?'green':guess==='HARVEST'?'yellow':'');const ncase=node.caseText||node.case||'Comparing market structure with its farming reference and the state of its own account.';$('case').textContent=ncase;$('policyTag').textContent='POLICY v'+(learner.policy?.version||'—');
+$('currentGuess').textContent=guess;$('currentGuess').className='value '+(guess.includes('BUY')?'green':guess==='HARVEST'?'yellow':'');const ncase=node.caseText||node.case||'The Guesser is comparing current market structure with its learned farming reference and capital state.';$('case').textContent=ncase;$('policyTag').textContent='POLICY v'+(learner.policy?.version||'—');
 const ts=['1H','4H','7D','30D','90D'];const refs=node.features?.refs||node.featureSnapshot?.refs||{};const rows=ts.map(t=>{const r=refs[t]||node.features?.[t]||node.featureSnapshot?.[t];if(!r)return '<div class="tf"><b>'+t+'</b><div>—</div><span>No snapshot</span></div>';return '<div class="tf"><b>'+t+'</b><div>'+String(r.dir||r.direction||'MIXED')+'</div><span>'+pct(r.dev||r.deviation||0)+' vs ref</span></div>'}).join('');$('timeframes').innerHTML=rows;
 const dist=Number(node.features?.athDist??node.featureSnapshot?.athDist??node.dist);const range=Number(node.features?.rangePos??node.featureSnapshot?.rangePos??node.rangePos);const vdev=Number(node.features?.virtualDev??node.featureSnapshot?.virtualDev??node.virtualDev);$('evidence').innerHTML=[['ATH distance',Number.isFinite(dist)?pct(dist):'—'],['30D range',Number.isFinite(range)?Math.round(range*100)+'%':'—'],['Virtual reference',Number.isFinite(vdev)?pct(vdev):'—'],['Nodes learned',String(nodes.filter(x=>x.horizons).length)],['Capital state',money(p.cash)],['Policy', 'v'+(learner.policy?.version||'—')]].map(x=>'<div class="metric"><b>'+x[0]+'</b><span>'+x[1]+'</span></div>').join('');
-$('history').innerHTML=nodes.length?'<table><thead><tr><th>When</th><th>Guess</th><th>BTC</th><th>Outcome</th><th>Policy</th></tr></thead><tbody>'+nodes.slice().sort((a,b)=>(Number(b.t)||0)-(Number(a.t)||0)).slice(0,40).map(x=>'<tr><td>'+new Date(Number(x.t)||Date.now()).toLocaleString()+'</td><td><span class="pill">'+(x.guess||'—')+'</span></td><td>'+money(x.price)+'</td><td>'+((x.horizons&&Object.keys(x.horizons).length)?'MATURED':'watching')+'</td><td>v'+(x.policyVersion||'—')+'</td></tr>').join('')+'</tbody></table>':'<div class="empty">No Guesser decisions yet. Open the dashboard and let it watch the market alongside you.</div>';
+$('history').innerHTML=nodes.length?'<table><thead><tr><th>When</th><th>Guess</th><th>BTC</th><th>Outcome</th><th>Policy</th></tr></thead><tbody>'+nodes.slice().sort((a,b)=>(Number(b.t)||0)-(Number(a.t)||0)).slice(0,40).map(x=>'<tr><td>'+new Date(Number(x.t)||Date.now()).toLocaleString()+'</td><td><span class="pill">'+(x.guess||'—')+'</span></td><td>'+money(x.price)+'</td><td>'+((x.horizons&&Object.keys(x.horizons).length)?'MATURED':'watching')+'</td><td>v'+(x.policyVersion||'—')+'</td></tr>').join('')+'</tbody></table>':'<div class="empty">No Guesser decisions have been recorded yet. Return to the main dashboard and let the prototype observe the market.</div>';
 $('updated').textContent=price?'BTC '+money(price):'NO MARKET SNAPSHOT';animate(guess)}
-$('nextLine').onclick=()=>{const sp=$('speech');if(sp){sp.childNodes[0].textContent=line(guess)+' ';const sm=$('speechName');if(sm)sm.textContent=guesserName();}};$('replay').onclick=()=>animate(guess);
+$('nextLine').onclick=()=>{$('speech').firstChild.textContent=line(guess)};$('replay').onclick=()=>animate(guess);
 (async function bootGuesserPage(){
   const db=await loadAll();
   p=learner.portfolio||{};
@@ -292,7 +204,7 @@ $('nextLine').onclick=()=>{const sp=$('speech');if(sp){sp.childNodes[0].textCont
   if(needsSetup){
     showSetup(learner._draft||GUESSER_DEFAULTS);
     $('gsStart').onclick=()=>{
-      applySetup({name:$('gsName')?.value,baseline:$('gsBaseline').value,crypto:$('gsCrypto').value,cash:$('gsCash').value,personality:$('gsPersonality').value,source:'guesser-page'},db);
+      applySetup({baseline:$('gsBaseline').value,crypto:$('gsCrypto').value,cash:$('gsCash').value,personality:$('gsPersonality').value,source:'guesser-page'},db);
       $('guesserSetupOverlay').style.display='none';
       p=learner.portfolio;guess=p.lastAction||'HOLD / PRESERVE';render();
     };
